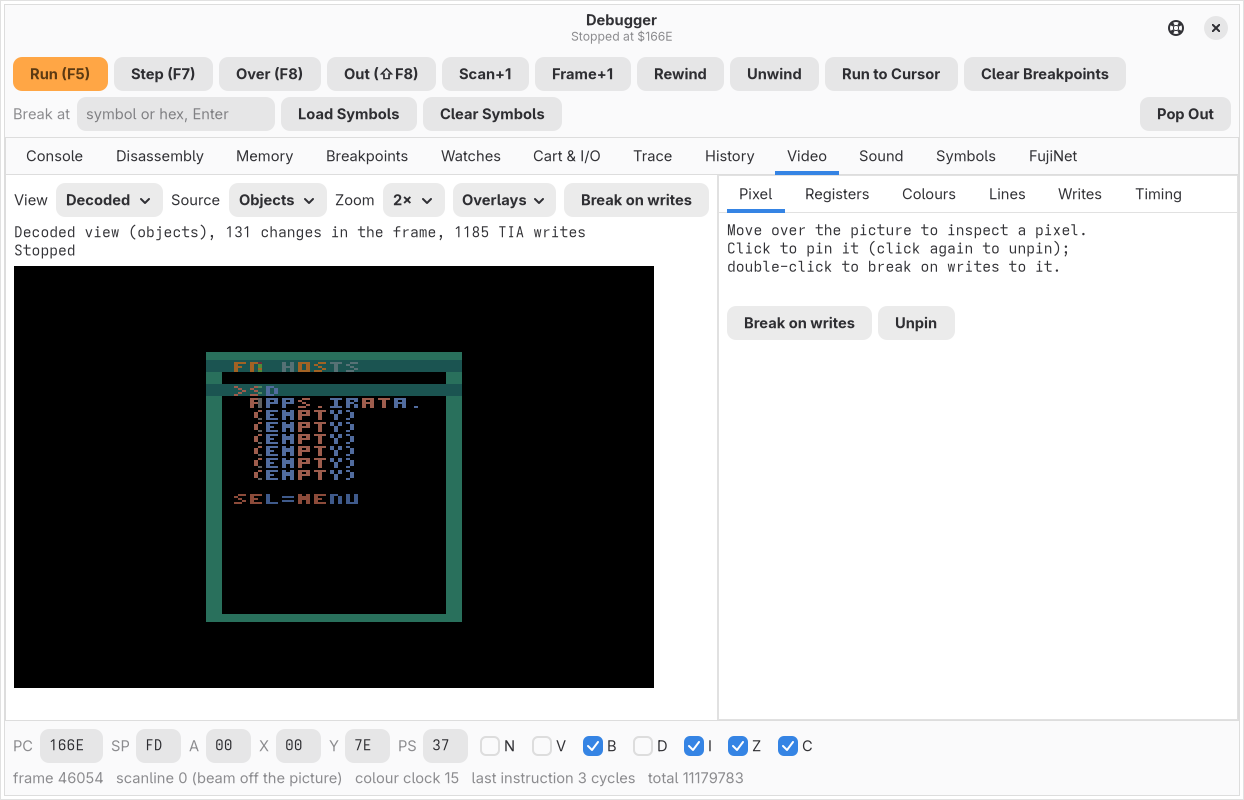
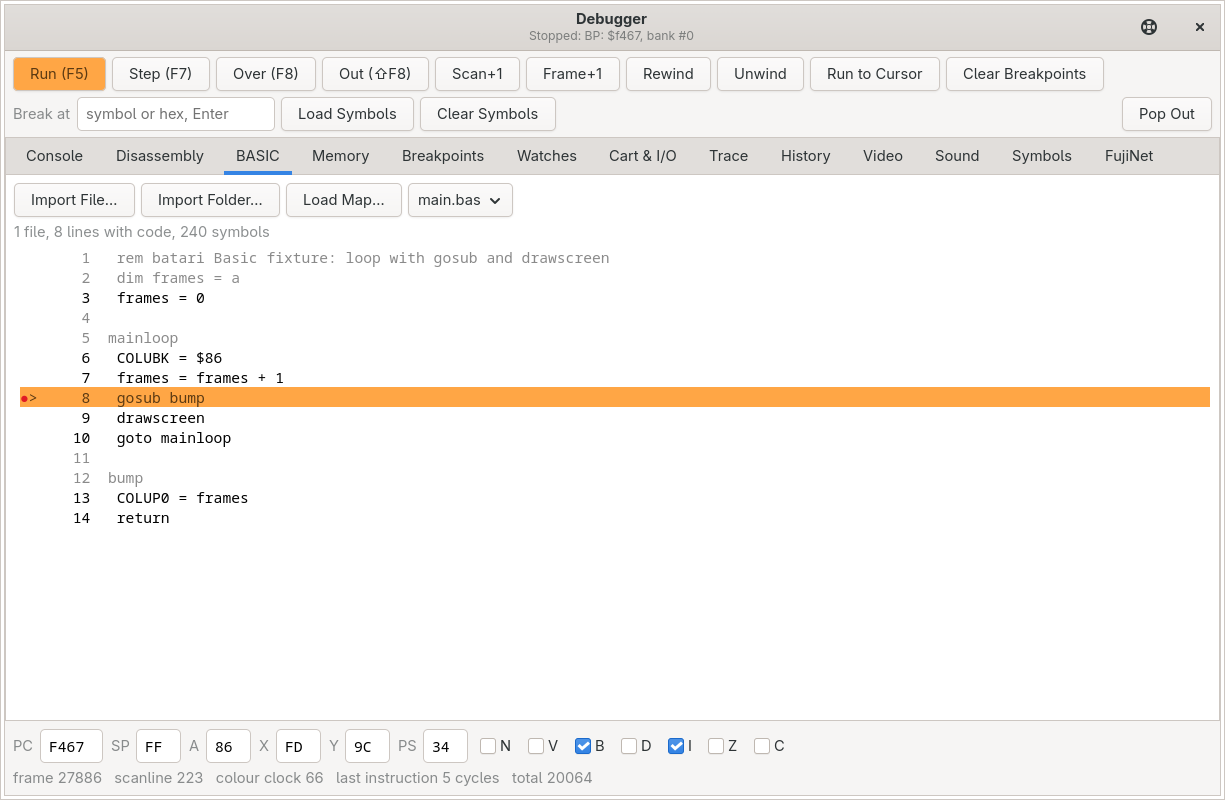
Release 0.8.0: BASIC debugger tab, whole filenames from CONFIG

diff --git a/README.md b/README.md
@@ -34,6 +34,13 @@ family (`fujinet-go-adam-desktop`, `-apple2-`, `-coco-`, `-msx-`, `-intv-`,
   between the 2600 and FujiNet, both ways, with hex; always recording,
   even before the debugger opens). Stepping: Step, Trace, Scan+1,
   Frame+1, Rewind, Unwind, Run To.
+- **Debug batari Basic by source.** The debugger's BASIC tab imports a `.bas`
+  file or folder, finds the `.lst` and `.sym` that `2600basic.sh` writes beside
+  it (a cartridge with its `.bas` next to it imports itself), and shows the
+  source with a red dot on every breakpoint and the running line highlighted.
+  Click a line to toggle a breakpoint; Step, Step Over and Step Out go by
+  BASIC line while the tab shows. Capture hooks: `A2600_BASIC_IMPORT=<path>`
+  and `A2600_BASIC_BREAK=name.bas:line` (with `A2600_DEBUGGER_TAB=BASIC`).
 - **Built-in Help.** **Help ▸ FujiNet Go Atari 2600 Help** (Ctrl+Shift+H,
   ⌘? on a Mac) opens a searchable Help, and the Help buttons in Preferences,
   the Keypads window, the debugger and the console log open the topic for what
